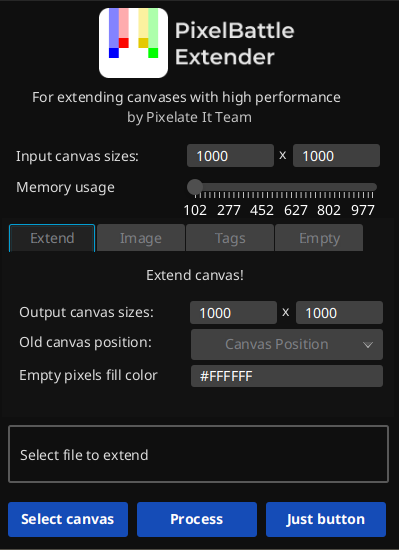
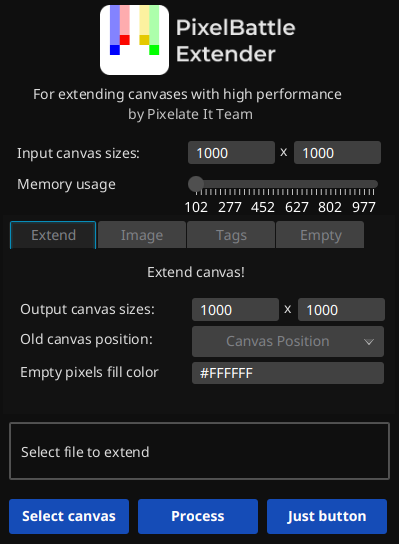
Now the project starts after assembly

diff --git a/src/main/java/com/pixelbattle/extender/Main.java b/src/main/java/com/pixelbattle/extender/Main.java
@@ -1,0 +1,9 @@
+package com.pixelbattle.extender;
+
+import com.pixelbattle.extender.launchers.MainLauncher;
+
+public class Main {
+    public static void main(String[] args) {
+        MainLauncher.main(args);
+    }
+}
